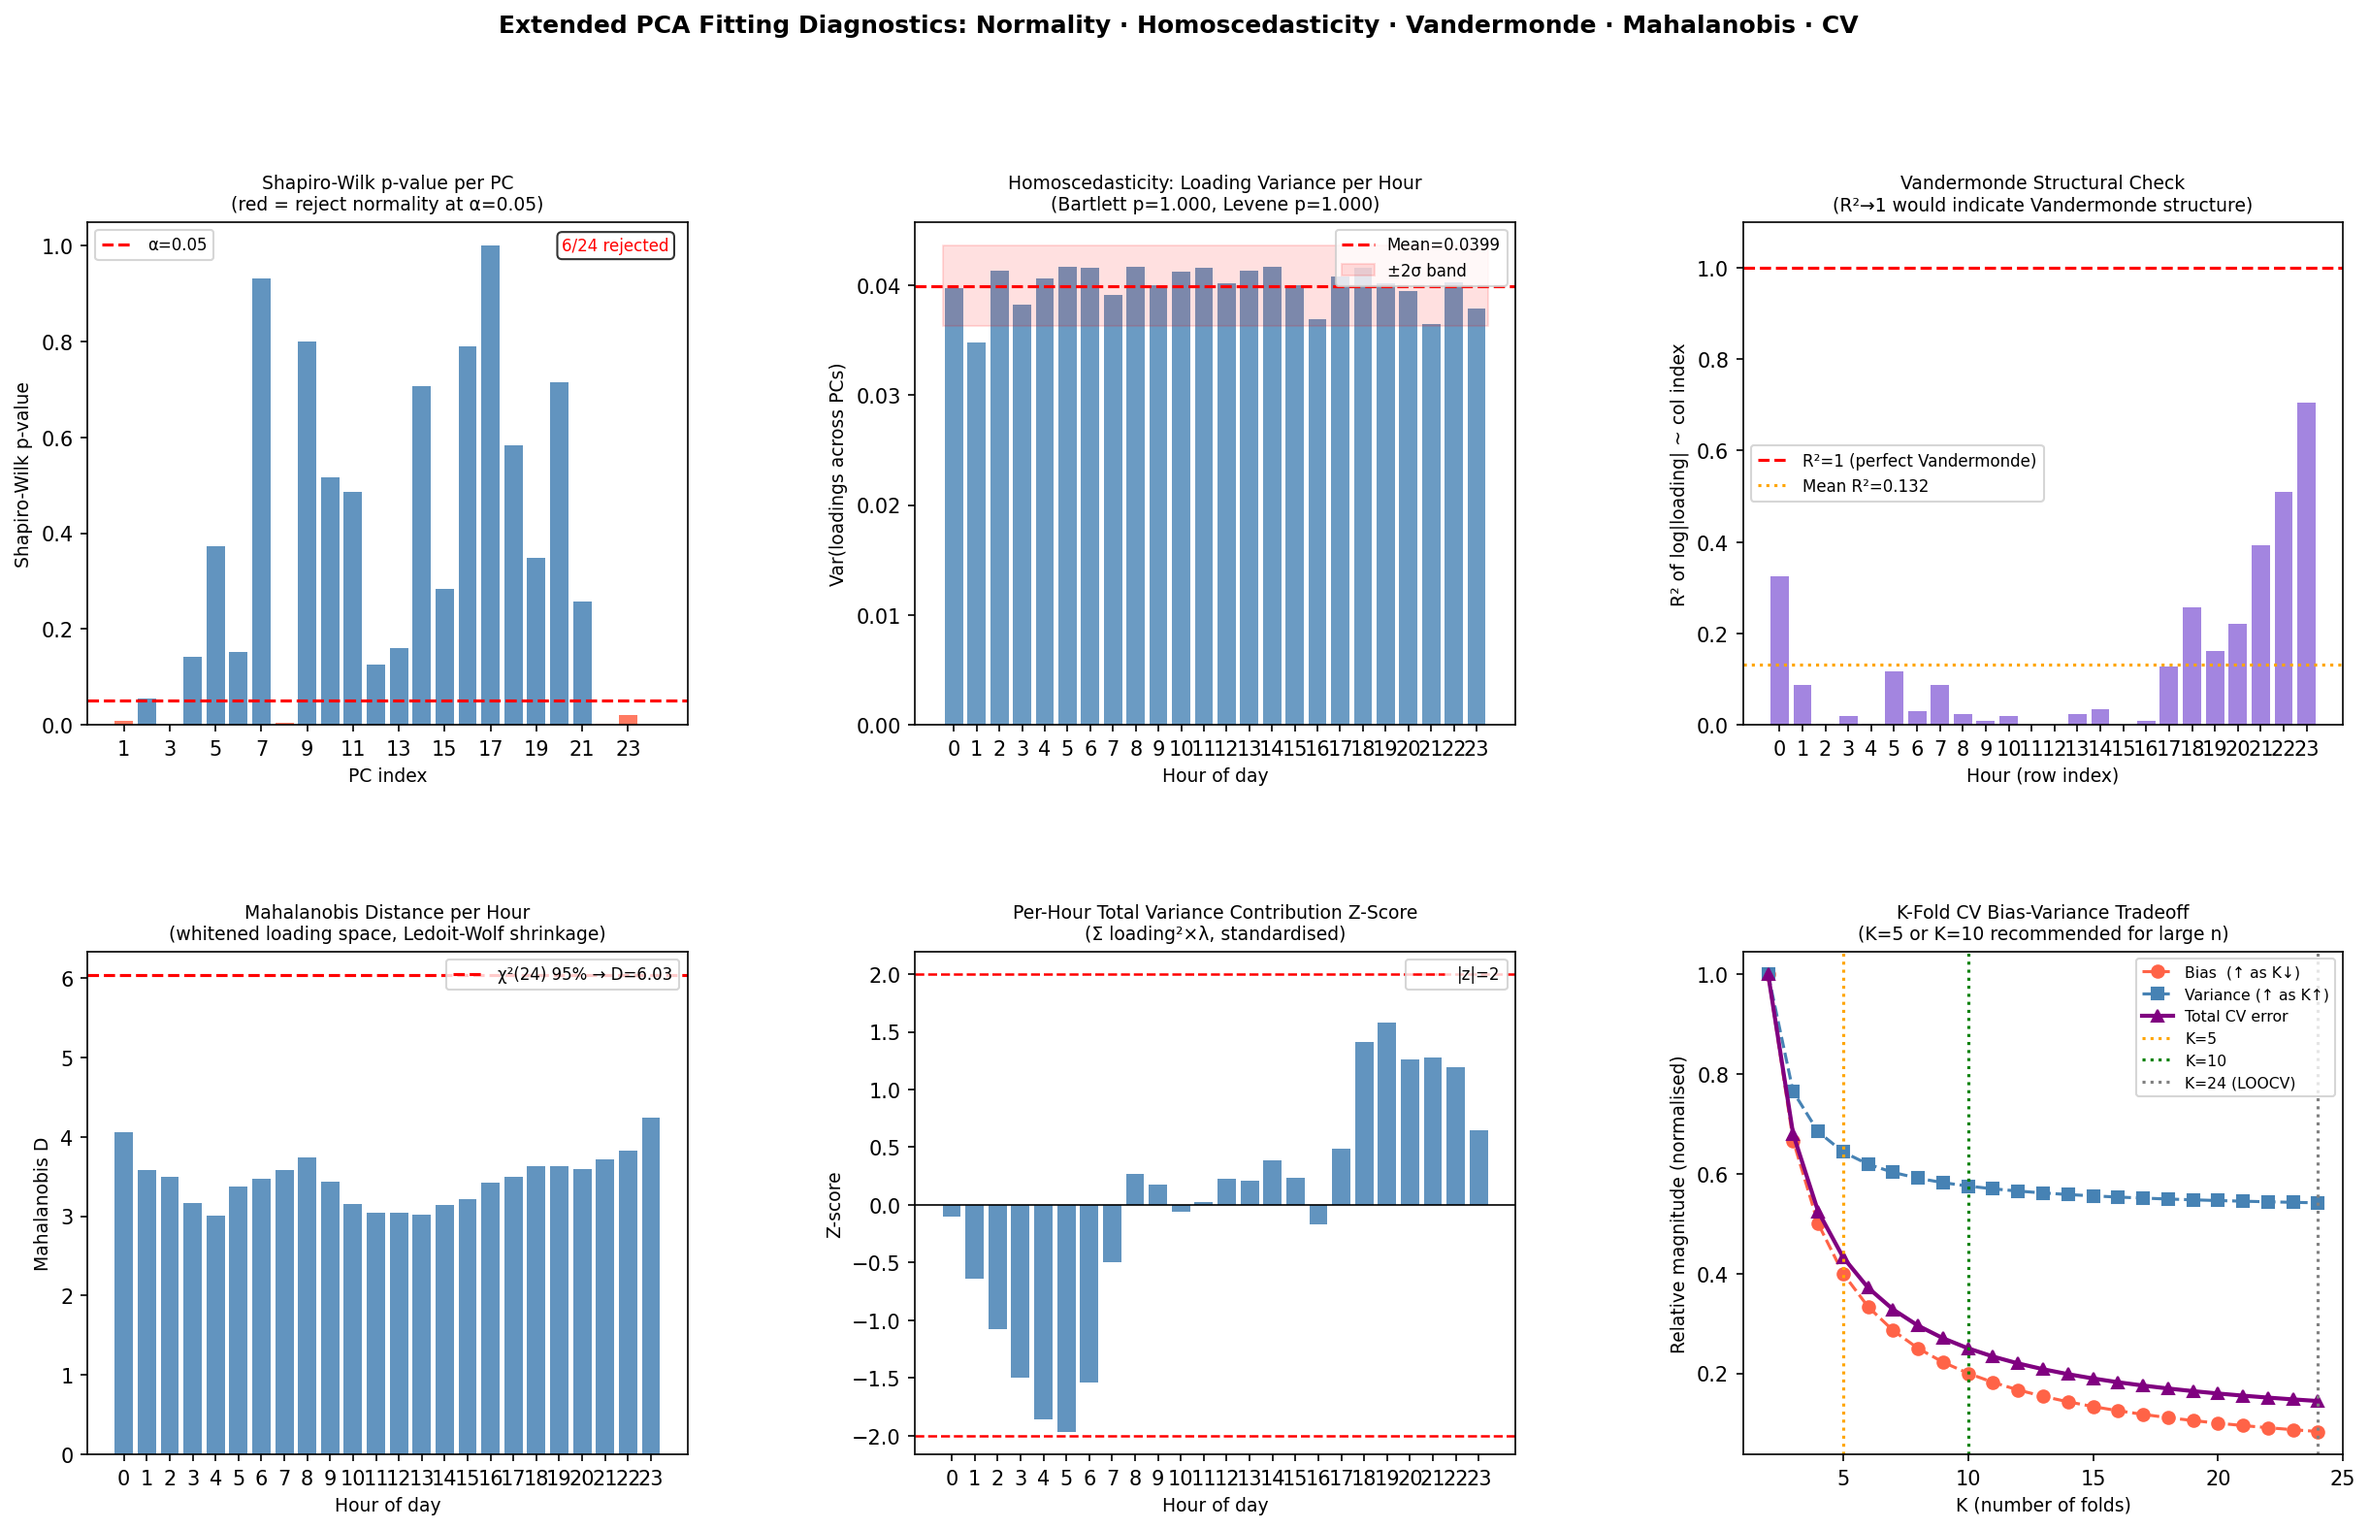
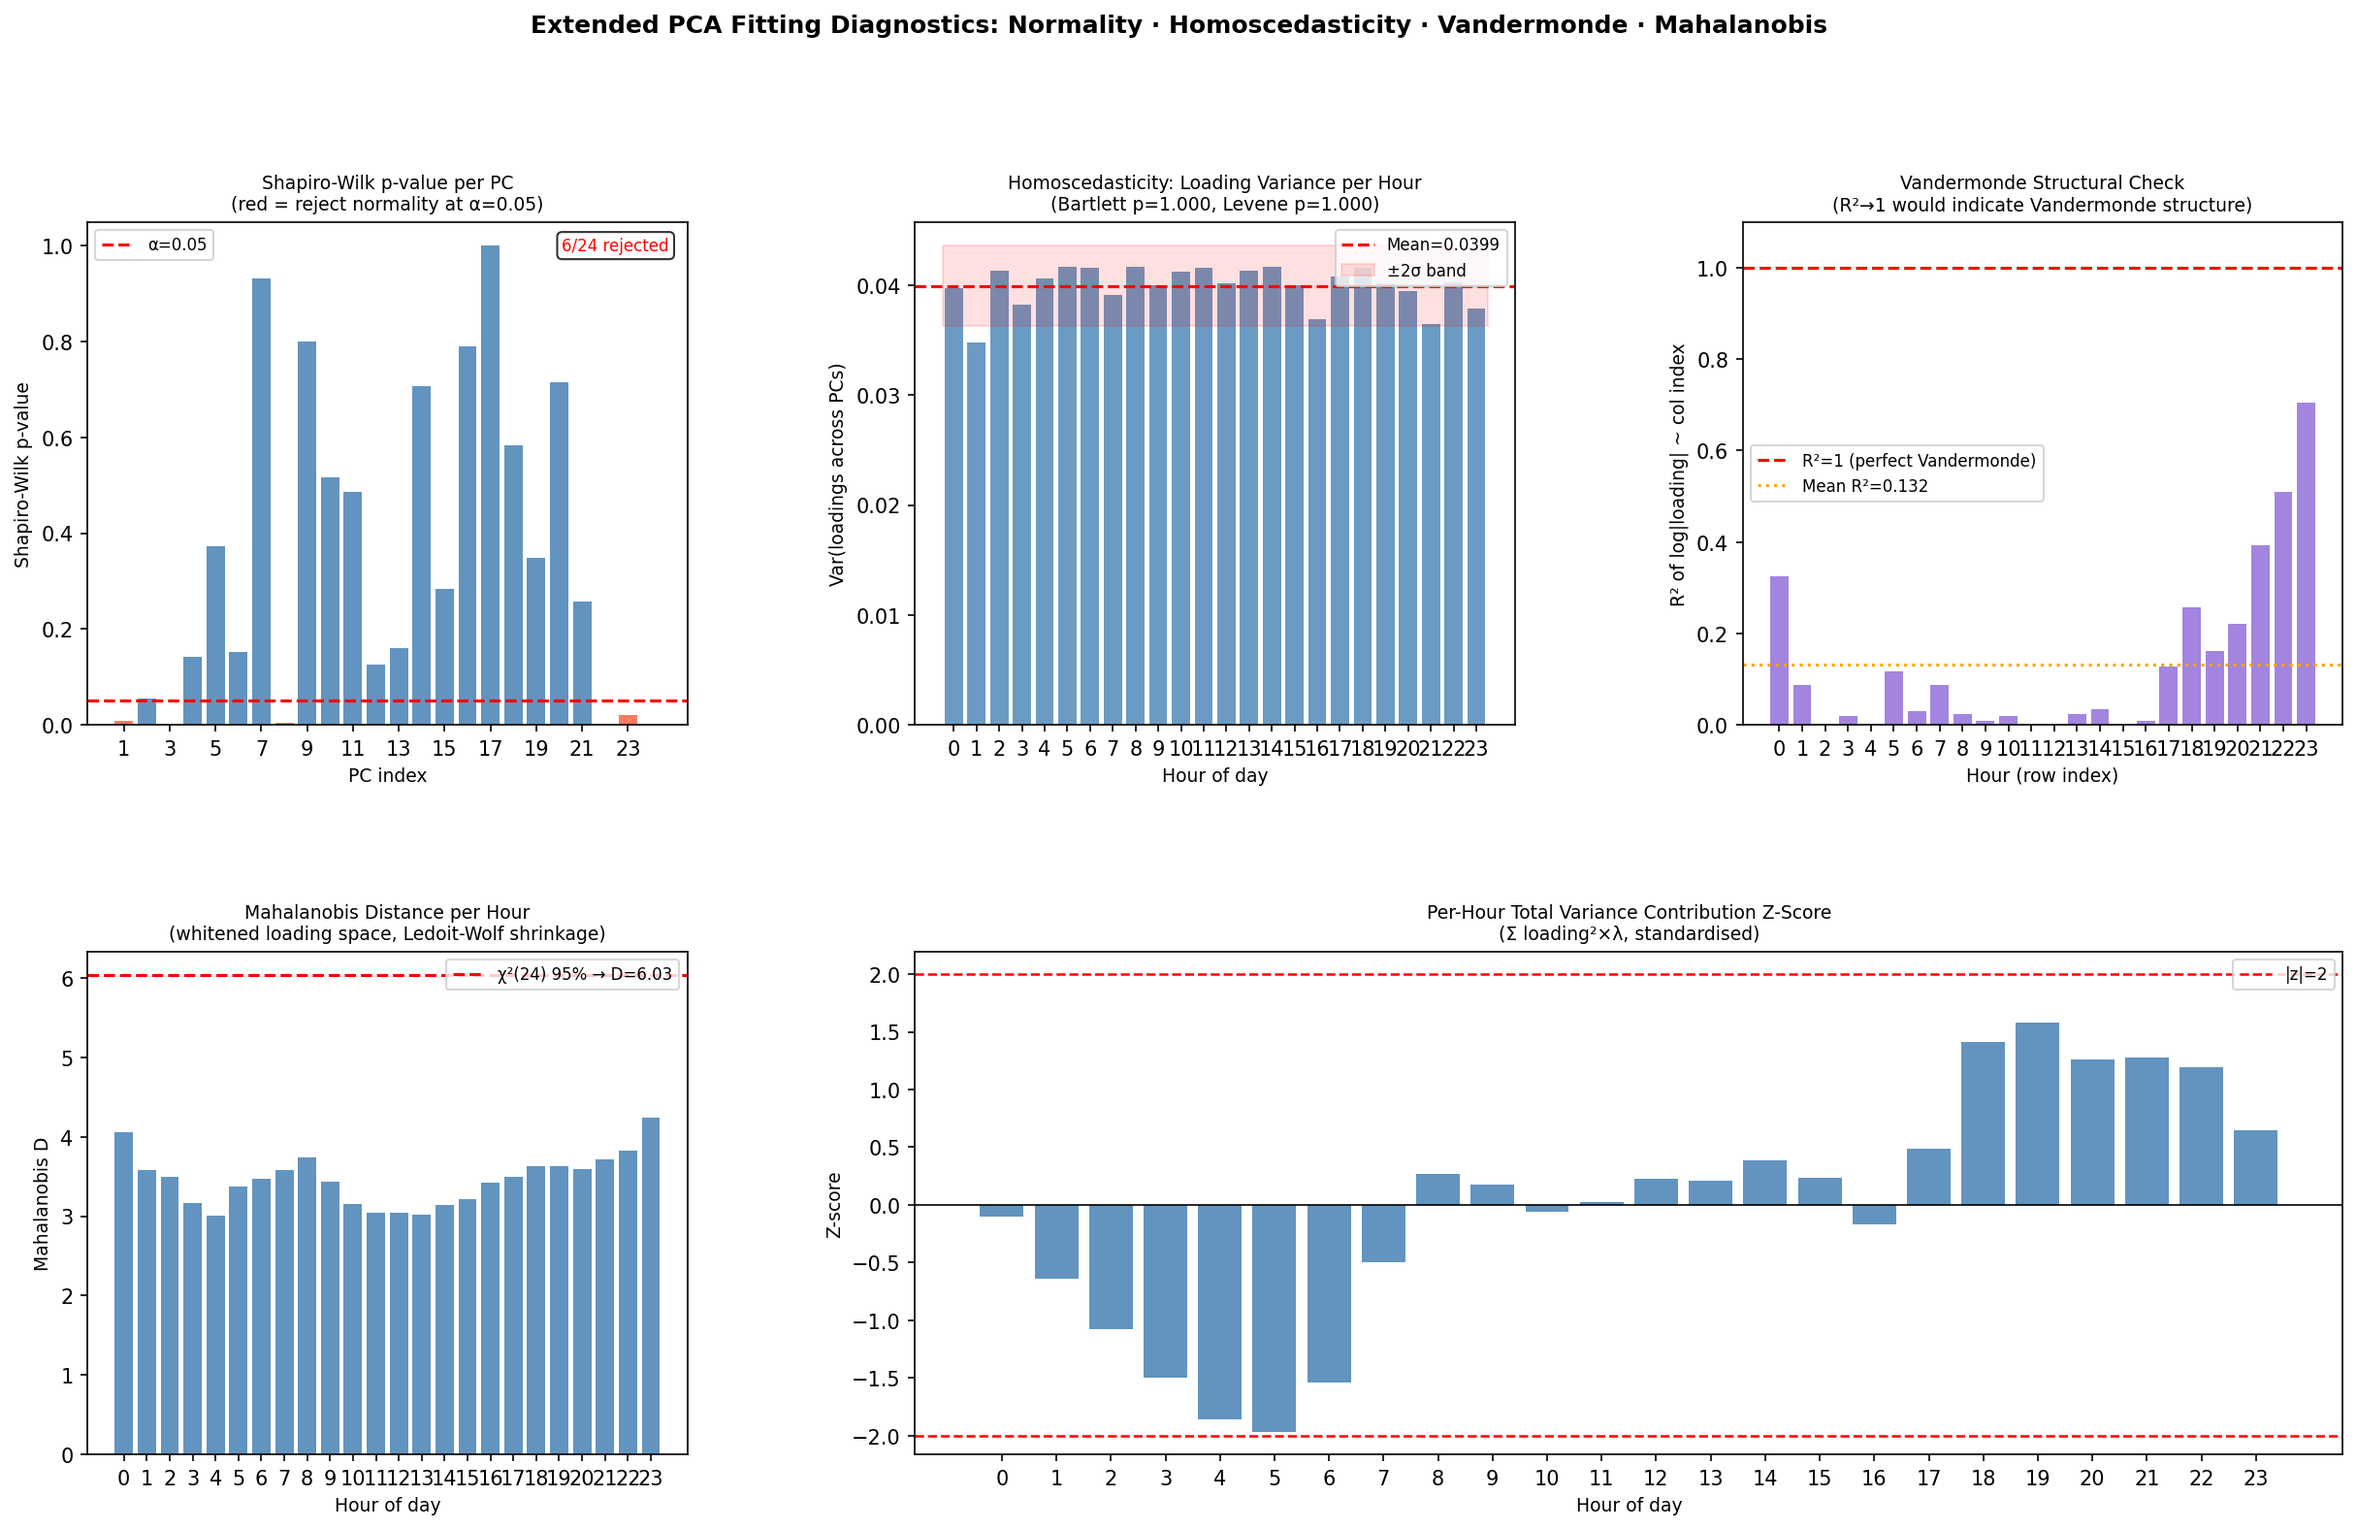
fix: remove CV panel from diagnostics figure
Drop the K-fold vs LOOCV panel from extended diagnostics and regenerate the output figure to match the new 5-panel layout.

diff --git a/pivot_and_bootstrap/diagnostics.py b/pivot_and_bootstrap/diagnostics.py
@@ -5,8 +5,7 @@ Provides statistical checks on a fitted PCA model including:
 - Homoscedasticity tests (Bartlett + Levene) across hours and PCs
 - Vandermonde structural check on the loading matrix
 - Mahalanobis distance per hour in whitened loading space
-- Cross-validation guidance plot (K-fold vs LOOCV bias-variance tradeoff)
-- Comprehensive 6-panel diagnostic figure
+- Comprehensive 5-panel diagnostic figure
 
 Usage
 -----
@@ -273,7 +272,7 @@ def _make_figure(
     ax4.set_xticks(hours)
 
     # ── Panel 5: Z-scores of total contribution ──────────────────────
-    ax5 = fig.add_subplot(gs[1, 1])
+    ax5 = fig.add_subplot(gs[1, 1:])
     bar_colors5 = ["tomato" if abs(z) > 2 else "steelblue" for z in z_scores]
     ax5.bar(hours, z_scores, color=bar_colors5, alpha=0.85)
     ax5.axhline( 2, color="red", linestyle="--", lw=1.2, label="|z|=2")
@@ -285,32 +284,9 @@ def _make_figure(
     ax5.legend(fontsize=8)
     ax5.set_xticks(hours)
 
-    # ── Panel 6: K-fold vs LOOCV bias-variance tradeoff ─────────────
-    ax6 = fig.add_subplot(gs[1, 2])
-    n   = components.shape[0]
-    k_vals     = np.arange(2, n + 1)
-    bias_proxy = 1.0 / k_vals
-    var_proxy  = 1.0 / (n - n / k_vals + 1)
-    cv_error   = (bias_proxy + var_proxy) / (bias_proxy + var_proxy).max()
-    ax6.plot(k_vals, bias_proxy / bias_proxy.max(), "o--", color="tomato",   lw=1.5,
-             label="Bias  (↑ as K↓)")
-    ax6.plot(k_vals, var_proxy  / var_proxy.max(),  "s--", color="steelblue", lw=1.5,
-             label="Variance (↑ as K↑)")
-    ax6.plot(k_vals, cv_error,                      "^-",  color="purple",    lw=2,
-             label="Total CV error")
-    ax6.axvline(5,  color="orange", linestyle=":", lw=1.5, label="K=5")
-    ax6.axvline(10, color="green",  linestyle=":", lw=1.5, label="K=10")
-    ax6.axvline(n,  color="grey",   linestyle=":", lw=1.5, label=f"K={n} (LOOCV)")
-    ax6.set_xlabel("K (number of folds)", fontsize=9)
-    ax6.set_ylabel("Relative magnitude (normalised)", fontsize=9)
-    ax6.set_title(
-        "K-Fold CV Bias-Variance Tradeoff\n(K=5 or K=10 recommended for large n)", fontsize=9)
-    ax6.legend(fontsize=7.5, loc="upper right")
-    ax6.set_xlim(1, n + 1)
-
     plt.suptitle(
         "Extended PCA Fitting Diagnostics: "
-        "Normality · Homoscedasticity · Vandermonde · Mahalanobis · CV",
+        "Normality · Homoscedasticity · Vandermonde · Mahalanobis",
         fontsize=12, fontweight="bold", y=1.01)
 
     os.makedirs(os.path.dirname(output_path) or ".", exist_ok=True)
